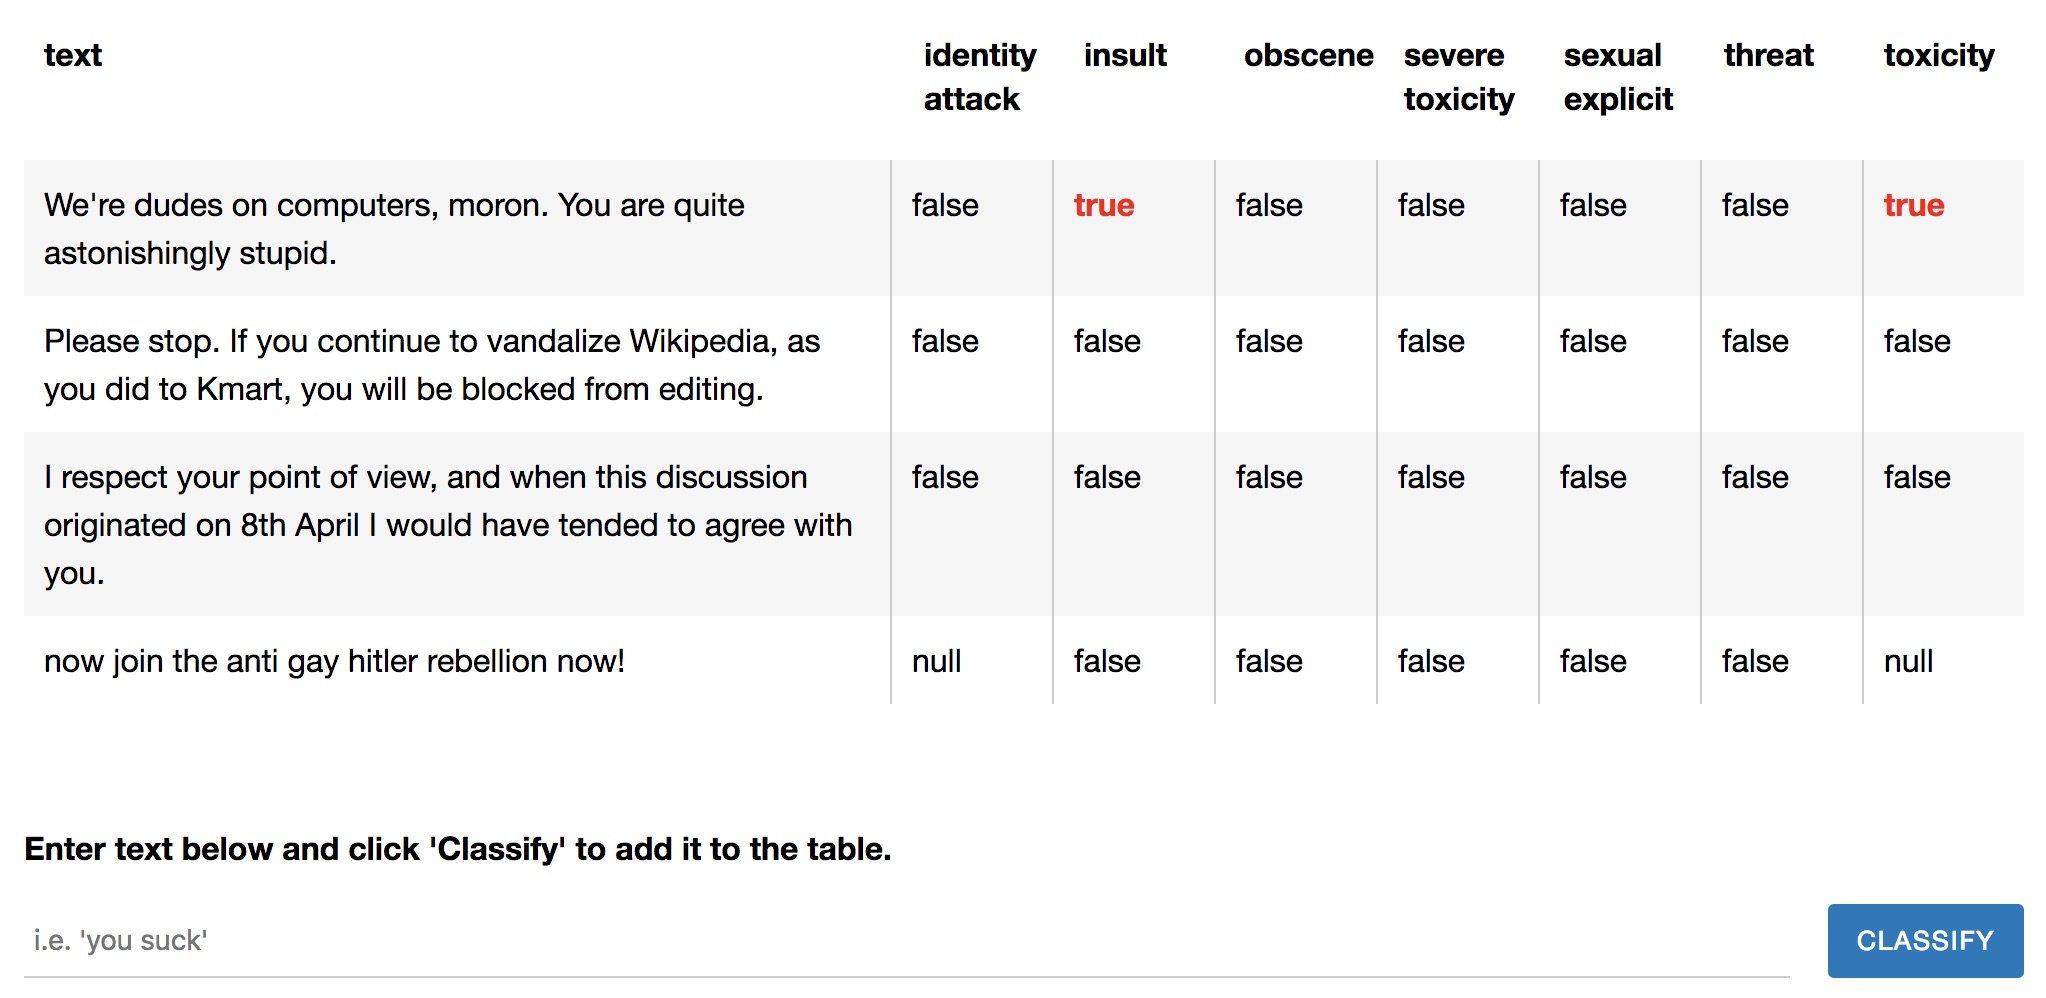
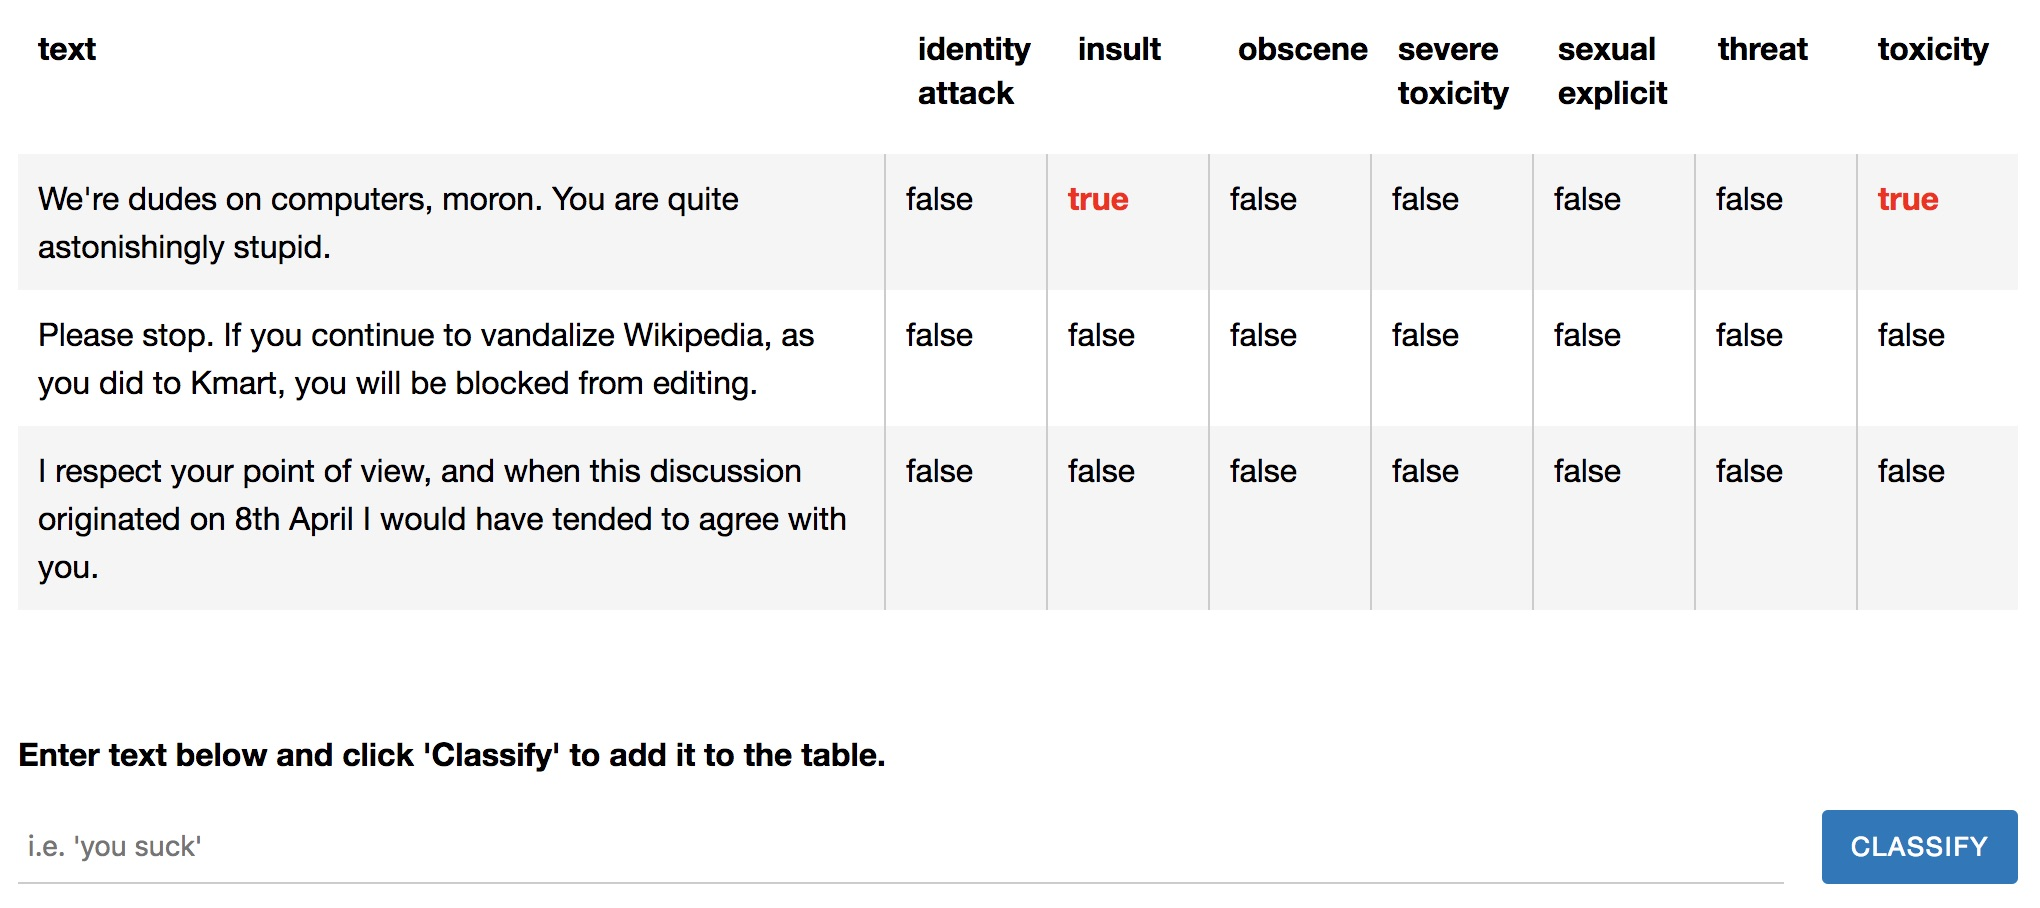
Update toxicity demo per reviewer feedback. (#172)

diff --git a/toxicity/demo/index.js b/toxicity/demo/index.js
@@ -32,10 +32,6 @@ const samples = [
     'id': '002fb627b19c4c0b',
     'text':
         'I respect your point of view, and when this discussion originated on 8th April I would have tended to agree with you.'
-  },
-  {
-    'id': '01ced7301be2a32d',
-    'text': 'now join the anti gay hitler rebellion now!'
   }
 ];
 
